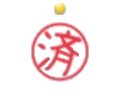
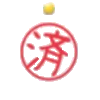
合計曲数出るように
ver2に新曲２曲追加
Copyright追加
済マークのアス比がおかしかったのを修正

diff --git a/index.html b/index.html
@@ -388,6 +388,17 @@
 				<td><input id="32_4" class="Master" type="checkbox"
 					name="arr[]" value="23_2"></td>
 			</tr>
+				<tr class="bg34">
+				<th class="index"><div class="wrapper">TOKIMEKIエスカレート</div></th>
+				<td><input id="34_1" class="Debut" type="checkbox" name="arr[]"
+					value="09_5"></td>
+				<td><input id="34_2" class="Regular" type="checkbox"
+					name="arr[]" value="14_9"></td>
+				<td><input id="34_3" class="Pro" type="checkbox" name="arr[]"
+					value="19_6"></td>
+				<td><input id="34_4" class="Master" type="checkbox"
+					name="arr[]" value="28_4"></td>
+			</tr>
 			<tr class="bg17">
 				<th class="index"><div class="wrapper">Star!!</div></th>
 				<td><input id="17_1" class="Debut" type="checkbox" name="arr[]"
@@ -604,6 +615,17 @@
 					value="18_10"></td>
 				<td><input id="31_4" class="Master" type="checkbox"
 					name="arr[]" value="28_3"></td>
+			</tr>
+									<tr class="bg33">
+				<th class="limited"><div class="wrapper">流れ星キセキ</div></th>
+				<td><input id="31_1" class="Debut" type="checkbox" name="arr[]"
+					value="08_17"></td>
+				<td><input id="31_2" class="Regular" type="checkbox"
+					name="arr[]" value="14_10"></td>
+				<td><input id="31_3" class="Pro" type="checkbox" name="arr[]"
+					value="17_11"></td>
+				<td><input id="31_4" class="Master" type="checkbox"
+					name="arr[]" value="26_8"></td>
 			</tr>
 
 		</table>
